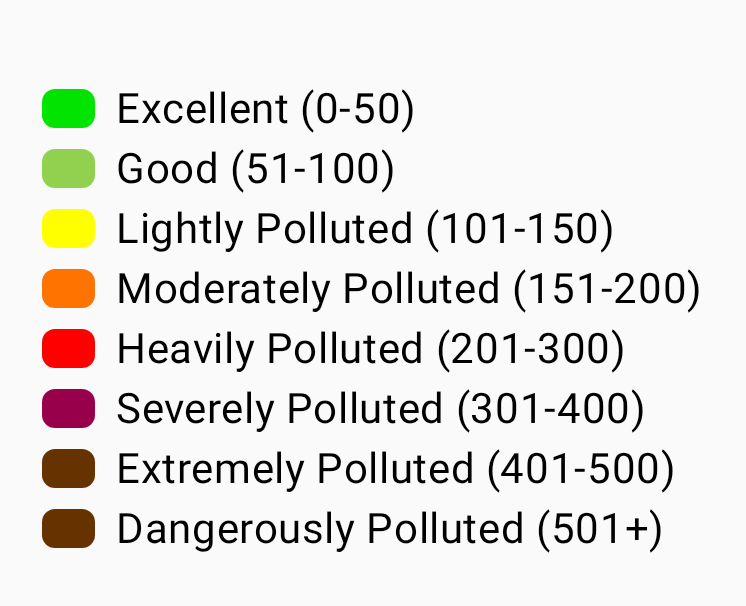
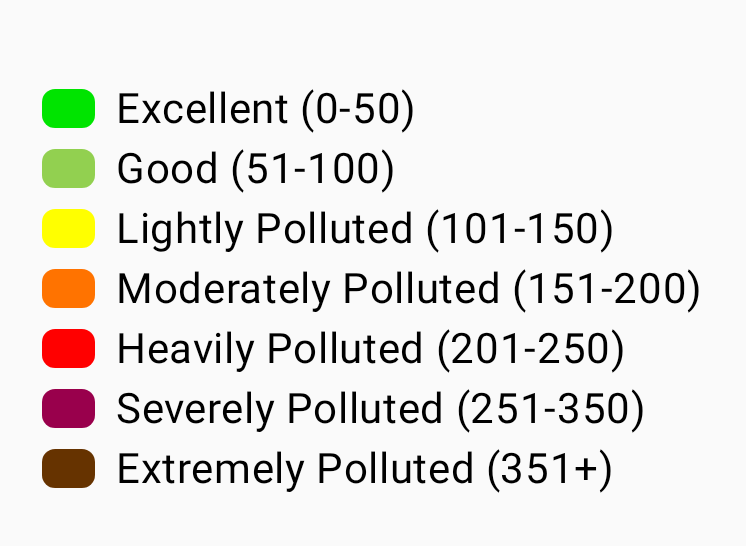
docs: 2.8.5 release notes and user guide
Replace the 2.8.5 placeholder in the metainfo and the Play changelog, and bring the user guide current with what merged since 2.8.4: guided setup, bootloader version and upgrade over Bluetooth, channel share and import, traceroute states, telemetry display, banana for scale and Android XR. Refresh the two docs screenshots whose goldens changed.

Changed region(s): [[0.0308, 0.1245, 0.9558, 0.9341], [0.0617, 0.8718, 0.1233, 0.9029]]

diff --git a/docs/en/user/node-metrics.md b/docs/en/user/node-metrics.md
@@ -2,7 +2,7 @@
 title: Node Metrics
 parent: User Guide
 nav_order: 5
-last_updated: 2026-10-21
+last_updated: 2026-11-12
 description: Telemetry dashboards for each mesh node — device health, environment sensors, air quality, signal quality, power, traceroute, and position history.
 aliases:
   - metrics
@@ -58,11 +58,21 @@ Environmental sensor data (requires compatible hardware):
 | Gas Resistance | BME680 |
 | IAQ (Air Quality) | BME680 |
 
-Environment metrics are charted over time — temperature, humidity, and pressure each get their own line chart with the measurement unit displayed on the Y axis.
+Environment metrics are charted over time, one chart per unit, stacked: temperature, humidity, pressure, and each other reading the node reports get their own chart with the unit on the Y axis. Humidity and soil moisture run from 0 to 100%. A unit with no data gets no chart.
 
-The BME680 **IAQ (Indoor Air Quality)** index is a single 0–500+ value derived from gas resistance, shown against a color-coded scale from *Excellent* to *Dangerously Polluted*:
+The BME680 **IAQ (Indoor Air Quality)** index is a single 0–500+ value derived from gas resistance, shown against a seven-band scale. Each band has a color and a label:
 
-![IAQ index scale from Excellent to Dangerously Polluted](../../assets/screenshots/node-metrics_iaq_scale.png)
+| IAQ | Label |
+|-----|-------|
+| 0–50 | Excellent |
+| 51–100 | Good |
+| 101–150 | Lightly Polluted |
+| 151–200 | Moderately Polluted |
+| 201–250 | Heavily Polluted |
+| 251–350 | Severely Polluted |
+| 351 and up | Extremely Polluted |
+
+![IAQ legend listing the seven bands with their colors](../../assets/screenshots/node-metrics_iaq_scale.png)
 
 > 💡 **Tip:** Environment metrics require a sensor connected to the remote node. Not all nodes report environmental data. See [Telemetry & Sensors](telemetry-and-sensors) for a full list of supported sensors.
 
@@ -139,28 +149,32 @@ Power management telemetry (requires INA sensor or compatible hardware):
 | Voltage | Per-channel voltage reading |
 | Current | Per-channel draw, in milliamps |
 
-The node detail screen shows cards for channels 1 to 3. Use the chart button on the **Power Metrics** row to open the chart screen, which lists a chip for every channel that reported data — up to eight — and charts the one you select. Use the label field under the chips to give a channel a name of your own, such as Solar or Battery. The app does not derive a wattage figure from voltage and current.
+The node detail screen shows a card for every channel that reported data, up to eight, under the name you gave the channel or **Channel** *N*. A channel that reported only voltage or only current shows only that reading. Use the chart button on the **Power Metrics** row to open the chart screen, which lists a chip for every channel that reported data — up to eight — and charts the one you select. Use the label field under the chips to give a channel a name of your own, such as Solar or Battery. The app does not derive a wattage figure from voltage and current.
 
 ## Traceroute
 
 Traceroute shows the path a message takes through the mesh:
 
 1. From the node detail screen's **Telemetry** section, tap the refresh button on the **Traceroute** row. You cannot traceroute your own node. The app sends at most one traceroute every 30 seconds, to any node, and **Trace Route** in the node list's touch & hold menu shares that cooldown.
-2. The app sends a traceroute request to the target node.
+2. The app sends a traceroute request to the target node. The request reads **Waiting for response** in the history until it settles.
 3. Results show each hop with its SNR.
+
+The ring on the traceroute button counts down the seconds until the next request is allowed.
 
 ### Reading Traceroute Results
 
 A traceroute is a round trip, so each saved result carries a hop count in each direction, **Forward Hops** and **Return Hops**, plus the **Round Trip** time in seconds. A result marked **Direct** reached the target with no relay in between. Tap a result to read the route traced toward the destination and the route traced back to you, with the SNR of every hop. That view offers **View on map**, which draws the same path, as long as the start and destination nodes have both shared a position.
 
-A relay that didn't record itself in the route shows as **Unknown hop**, and a relay your node has no record of shows as its node ID, such as `!a1b2c3d4`.
+A relay that didn't record itself in the route shows as **Unknown hop**, and a relay your node has no record of shows as its node ID, such as `!a1b2c3d4`. A hop whose node was last heard over MQTT is marked `(MQTT)`.
 
 The history also keeps traceroutes this app didn't request:
 
 - **Observed** marks a response from this node to a request made elsewhere, such as one started from your node's own screen. It has hop counts but no round-trip time, and its points on the chart are hollow rings.
 - **Traced by** *node* marks a traceroute that node ran to yours. It shows the inbound route with the SNR of each hop, but no return route, no round-trip time, and no map, and it stays off the chart.
 
-A result marked **No Response** means the target never answered. It may be out of range, asleep, or configured not to reply. Wait for the 30-second cooldown to clear and try again; if it keeps failing, send a direct message first to confirm the node is reachable at all.
+A result marked **No Response** means the target didn't answer within two minutes, or the mesh reported that the request couldn't be delivered. The target may be out of range, asleep, or configured not to reply. Wait for the 30-second cooldown to clear and try again; if it keeps failing, send a direct message first to confirm the node is reachable at all.
+
+A result marked **Rate limited** means your node refused the request because it sends one traceroute every 30 seconds. Wait for the cooldown and try again.
 
 ## Position Log
 

diff --git a/docs/en/user/firmware.md b/docs/en/user/firmware.md
@@ -2,7 +2,7 @@
 title: Firmware Updates
 parent: User Guide
 nav_order: 13
-last_updated: 2026-10-28
+last_updated: 2026-11-12
 description: Update your node's firmware over Bluetooth, Wi-Fi, or USB — OTA process, version channels, pre-flight checks, and recovery.
 aliases:
   - firmware
@@ -92,7 +92,7 @@ Both a USB erase and a bootloader upgrade write two files in turn, so you are as
 
 The app reads `INFO_UF2.TXT` from the drive you select to confirm it really is the device's update drive and to identify the board before writing anything.
 
-For a bootloader upgrade, the app also reads the installed bootloader version from `INFO_UF2.TXT` and shows it next to the latest release before writing anything. The running firmware doesn't report its bootloader, so the installed version appears only once the device has restarted into update mode, never on the firmware screen while connected. If the two match, the bootloader is left as it is and the app moves straight on to reinstalling the firmware. Otherwise choose **Upgrade bootloader** to write it, or **Skip** to reinstall the firmware without changing it.
+For a bootloader upgrade, the app also reads the installed bootloader version from `INFO_UF2.TXT` and shows it next to the latest release before writing anything. On firmware 2.8.2 and older the running firmware doesn't report its bootloader, so the installed version appears only once the device has restarted into update mode. If the two match, the bootloader is left as it is and the app moves straight on to reinstalling the firmware. Otherwise choose **Upgrade bootloader** to write it, or **Skip** to reinstall the firmware without changing it.
 
 On nRF52 the app must already know which Bluetooth stack your device uses before it starts, because it can't read the bootloader until the device has rebooted. If it can't confirm the stack, it refuses to erase and points you at the [Web Flasher](https://flasher.meshtastic.org) instead. In the Web Flasher, choosing the wrong Bluetooth stack can leave the node recoverable only with a hardware programmer.
 
@@ -102,6 +102,24 @@ Once the drive is readable, how an nRF52 device is erased depends on its bootloa
 - **Older bootloaders need a Bluetooth-stack-specific erase.** On these the app writes a small erase program matched to your device's Bluetooth stack, then starts it over the serial port. If the drive reports a different stack than expected, the app refuses rather than guessing.
 
 The app picks the path from what the drive reports; you don't choose it.
+
+### Bootloader version and upgrade over Bluetooth
+
+An nRF52 node on firmware newer than 2.8.2 reports its bootloader version while it runs. The device card on the firmware screen then shows a **Bootloader** row with the latest release beside it, on any connection. Every bootloader before 2.6.0 reports the same value, so those read **Bootloader: older than 2.6.0**. A node that reports no version shows no row. A node that reports the latest release isn't offered an upgrade.
+
+The screen offers **Upgrade bootloader** over Bluetooth when all of these hold:
+
+- the node is connected over Bluetooth
+- it reports a bootloader older than the latest release
+- a firmware version is selected
+
+Unplug the USB cable before starting. With a cable attached, the new bootloader comes up as an update drive, not over Bluetooth, and the app cannot send the firmware.
+
+The app sends the new bootloader over Bluetooth, then reinstalls the selected firmware, because writing the bootloader erases it. The whole upgrade takes about 10 minutes. Afterward the **Bootloader** row shows the latest release.
+
+Before writing, the app verifies the download and reads the board name from the bootloader. If the package fails verification, nothing is written. If the bootloader names a different board or none, nothing is written and the node restarts into its firmware.
+
+If the node doesn't come back over Bluetooth after the bootloader is written, install the firmware from its update drive over USB. Otherwise unplug it, reset it, and use **Resume firmware update** on the **Connect** tab.
 
 ### What the nRF52 bootloader does
 

diff --git a/docs/en/user/connections.md b/docs/en/user/connections.md
@@ -2,7 +2,7 @@
 title: Connections
 parent: User Guide
 nav_order: 2
-last_updated: 2026-11-08
+last_updated: 2026-11-12
 description: Connect your phone or desktop to a Meshtastic node over Bluetooth, USB, or TCP/IP.
 aliases:
   - bluetooth
@@ -144,9 +144,16 @@ If the scan reports **No networks found** or fails outright, move the phone clos
 
 Being connected is not the same as being able to transmit.
 
-A node leaves the factory with no LoRa region set, and it does not transmit until you set one. When you connect such a node, the **Connect** tab shows a **Set your region** card; tap it to open the LoRa screen and choose the region you are in.
+A node leaves the factory with no LoRa region set, and it does not transmit until you set one. The first time you connect such a node, the app opens a guided setup, and the **Connect** tab shows a **Set your region** card that reopens it. The setup takes you through four choices and ends on a summary:
 
-Once the region is set, the tab warns you if the node is receive-only: a **Transmit is disabled** card, reading "This device can receive but will not send anything over LoRa." Tap it to open the same screen and turn **Transmit Enabled** back on. Only one of the two cards appears at a time. An unset region already stops the node transmitting, so the app names that first and holds the transmit card back until you have set a region.
+1. **Region.** Search the list for the region you are in. The app suggests the one that matches your phone's region setting; confirm it or pick another.
+2. **Preset.** The modem preset sets the range and speed of the mesh, and everyone on a mesh uses the same one. On firmware older than 2.8 the node restarts after saving, and the setup continues once it reconnects.
+3. **Name.** Enter the names other people see in their node lists and on their maps. Licensed operators skip this page.
+4. **Nearby meshes.** On a node with the [Mesh Beacon](discovery#mesh-beacon) module, turn on listening for invitations from nearby meshes and join one you have heard.
+
+If you close the setup, the app doesn't open it for that node again on its own. Once the region is set, the card reads **Set up radio**, and the **Settings** screen has a **Set up radio** row for your own node.
+
+Once the region is set, the tab also warns you if the node is receive-only: a **Transmit is disabled** card, reading "This device can receive but will not send anything over LoRa." Tap it to open the LoRa screen and turn **Transmit Enabled** back on. Only one of the two cards appears at a time. An unset region already stops the node transmitting, so the app names that first and holds the transmit card back until you have set a region.
 
 For more information, see [Settings — Radio & User](settings-radio-user#lora-config).
 

diff --git a/docs/en/user.md b/docs/en/user.md
@@ -17,21 +17,21 @@ Documentation for using the Meshtastic Android and Desktop app.
 Keep the last 5–8 entries and archive older ones by removing them.
 -->
 
+**November 2026** — [Connections](user/connections) — A node with no region opens a guided setup for its region, preset, name, and nearby meshes.
+
+**November 2026** — [Firmware Updates](user/firmware) — The firmware screen shows the nRF52 bootloader version a node reports, and an outdated bootloader can be upgraded over Bluetooth.
+
+**November 2026** — [Messages & Channels](user/messages-and-channels) — **Share Channels** offers Replace or Add on the code itself, and an Add import shows how many channel slots are in use.
+
+**November 2026** — [Node Metrics](user/node-metrics) — A traceroute request reads **Waiting for response**, **No Response**, or **Rate limited**, MQTT hops are marked, and environment readings chart one unit per chart.
+
+**November 2026** — [Map & Waypoints](user/map-and-waypoints) — On an Android XR headset, a 3D terrain table shows the mesh with base map, contours, buildings, and links.
+
 **October 2026** — [Firmware Updates](user/firmware) — What the Meshtastic nRF52 Bootloader does while the update drive is up, and where a node waits after a dropped Bluetooth update.
 
 **October 2026** — [Settings — Radio & User](user/settings-radio-user) — Each configuration screen has its own section, settings use the app's exact labels, and every table lists the default value.
 
-**October 2026** — [Firmware Updates](user/firmware) — A node on firmware from 2.3.15 up to 2.5.14 stays connected behind a required-update screen, and the Connect tab flags a newer stable release.
-
-**October 2026** — [Messages & Channels](user/messages-and-channels) — A failed message can be resent in place, and on firmware 2.8.1 or newer a direct message can show **Delivered to recipient · proven**.
-
-**October 2026** — [Desktop App](user/desktop) — Site Planner computes coverage inside the app and adds it to the map as a layer.
-
 **October 2026** — [Map & Waypoints](user/map-and-waypoints) — The AR mesh view draws nodes and waypoints over the phone's camera and turns you toward the one you are finding.
-
-**September 2026** — [Notifications](user/notifications) — A page that lists every notification category, what each opens when tapped, when a message stays quiet, and what a message notification lets you do from the shade or a watch.
-
-**September 2026** — [Nodes](user/nodes) — On firmware 2.8.1 or newer, nodes your node has not heard since its LoRa settings changed carry an orange marker, a **Hide unheard nodes** filter, and a banner whose **Remove** action deletes them after you confirm.
 
 <!-- WHATS_NEW_END -->
 

diff --git a/docs/en/user/nodes.md b/docs/en/user/nodes.md
@@ -2,7 +2,7 @@
 title: Nodes
 parent: User Guide
 nav_order: 4
-last_updated: 2026-10-24
+last_updated: 2026-11-12
 description: Browse, filter, and sort mesh nodes — view details, signal quality, roles, and quick actions.
 aliases:
   - node-list
@@ -103,10 +103,11 @@ A mismatch never replaces the key you already hold. The app keeps the first key 
 From the node list, you can:
 - **Tap** a node to view its detail page
 - **Touch & hold** for quick actions:
-  - **Add to favorites** or **Remove from favorites**
-  - **Mute notifications** or **Unmute**, shown only once that node has reported firmware 2.7.18 or newer
   - **Message**, to open a direct message
-  - **Trace Route**, which stays disabled for 30 seconds after any traceroute request
+  - **Set display name**, to give the node a [local name](#display-names)
+  - **Add to favorites** or **Remove from favorites**
+  - **Mute notifications** or **Unmute**, shown only once your own node has reported firmware 2.7.18 or newer
+  - **Trace Route**, which reads **Trace Route in** *N* **s** and stays disabled for 30 seconds after any traceroute request
   - **Open Compass**, for a node with a position
   - **Open mesh view**, for a node with a position on a phone that supports the [AR mesh view](map-and-waypoints#ar-mesh-view)
   - **Ignore** or **Remove from ignored**
@@ -230,6 +231,10 @@ The label always accompanies the mark, so the status is never conveyed by color 
 ### 3D device model
 
 When the Meshtastic web flasher has a 3D model of the node's hardware, the device picture on the detail screen carries a 3D badge. Tap it to open the model full screen, where a drag turns it. On Google Play builds, **View in your space** places the model on a real surface at real size through ARCore, and on Android 10 and later the shutter button saves the view to Pictures/Meshtastic. F-Droid and desktop builds show the model without the AR view.
+
+The banana button (**Banana for scale**) stands a real-size banana beside the device, in the model viewer and in the AR view. The banana is 185 mm (7.3 in) tall, so it shows how big the device is. It is off each time you open the model.
+
+On an Android XR headset, the Google Play build's **View in your space** stands the model in the room beside the app, at real size. The banana comes with it when it is on. Pinch and drag the model to move it.
 
 ### Device links ("I want one")
 

diff --git a/docs/en/user/messages-and-channels.md b/docs/en/user/messages-and-channels.md
@@ -2,7 +2,7 @@
 title: Messages & Channels
 parent: User Guide
 nav_order: 3
-last_updated: 2026-10-21
+last_updated: 2026-11-12
 description: Send and receive messages, manage channels, configure encryption, search conversations, and use quick chat, reactions, and message actions.
 aliases:
   - channels
@@ -46,9 +46,18 @@ Key length alone does not change the icon: a 128-bit key and a 256-bit key both 
 4. Set the channel name and the **PSK**, and choose whether the channel uses MQTT uplink and downlink. Naming a new channel generates a fresh 256-bit key for you; the refresh icon beside **PSK** generates another one.
 5. Tap **Save** to close the editor. The change is still only on your phone.
 6. Tap **Send** at the bottom of the channel list to write the changes to the node. **Cancel**, or leaving the screen without tapping **Send**, throws them away.
-7. Optional: share the channel URL or QR code with the people who need access.
+7. Optional: share the channels with the people who need access — see [Sharing and importing channels](#sharing-and-importing-channels).
 
 Tapping an existing channel opens the same editor, where you can change the name, the PSK, MQTT uplink and downlink, and position precision. Every edit on this screen — adding, editing, deleting, or dragging a channel into a new order — waits on **Send** the same way.
+
+### Sharing and importing channels
+
+On the **Channels** screen, tap **Share Channels** to show a QR code and a link for the channels on your node. Choose what the code does on the other person's node before you hand it out:
+
+- **Replace** overwrites every channel on their node with yours and applies your LoRa settings.
+- **Add** keeps their channels and LoRa settings and appends yours.
+
+To take in someone else's channels, use the import button on the same screen: **Scan Shared Channels QR Code**, **Input Shared Channels URL**, or, on a phone with NFC, **Scan Shared Channels NFC**. For an Add code, the app lists the incoming channels so you can select the ones you want and shows how many of your node's channel slots are in use. If the selection doesn't fit, a line says how many channels to uncheck. Unchecking a channel that is already on your node removes it.
 
 ### Archived Channels
 

diff --git a/docs/en/user/settings-radio-user.md b/docs/en/user/settings-radio-user.md
@@ -2,7 +2,7 @@
 title: Settings — Radio & User
 parent: User Guide
 nav_order: 7
-last_updated: 2026-10-24
+last_updated: 2026-11-12
 description: Configure your node hardware, LoRa presets, user profile, position sharing, power management, and security.
 aliases:
   - settings
@@ -249,7 +249,7 @@ On **Settings → Security**. The screen is grouped into cards: **Packet authent
 | Backup Keys | Save an encrypted backup of the node's keys on this phone. Only for your own node, and not in the desktop app | — |
 | Debug Logs | Output live debug logging over serial, and view and export position-redacted node logs over Bluetooth | Off |
 | Delete Key Backup | Remove the stored key backup from this phone | — |
-| Managed Device | Locks the whole Configuration list, not just channels — every setting on the node becomes read-only and only an admin can change anything. Only selectable once an **Admin Key** is set | Off |
+| Managed Device | Locks the whole Configuration list, not only channels — every setting on the node becomes read-only and only an admin can change anything. Only selectable once an **Admin Key** is set, and saving with no admin key left turns it off. If every admin key is lost, the only recovery is to erase the node with the [Web Flasher](https://flasher.meshtastic.org) | Off |
 | Private Key | Your node's private key (handle securely). Shown redacted when you are viewing another node over remote admin — the firmware doesn't send it | Generated by the node |
 | Protection level | How unsigned packets are treated: **Strict — Require authentication**, **Balanced — Prefer authenticated**, or **Compatible — Accept unsigned**. Needs firmware that supports packet signing; **Strict** asks for confirmation | Compatible |
 | Public Key | Your node's public key (read-only) | Derived from the private key |

diff --git a/docs/en/user/map-and-waypoints.md b/docs/en/user/map-and-waypoints.md
@@ -2,7 +2,7 @@
 title: Map & Waypoints
 parent: User Guide
 nav_order: 6
-last_updated: 2026-11-07
+last_updated: 2026-11-12
 description: View node positions on the map, create and share waypoints, manage map layers and Site Planner, and control position sharing and privacy.
 aliases:
   - map
@@ -61,6 +61,19 @@ Tap the mesh view button (**Open mesh view**) in the map's top bar to see the wh
 - Waypoint geofences are outlined, and the view says when you are inside one.
 
 When your phone's position has no altitude, targets sit level with you and the view says elevation is approximate. Without camera access, or while the phone is too hot, the view carries on as a compass.
+
+## 3D map on Android XR
+
+On an Android XR headset, the Google Play build adds a **Full Space** button. Full Space is the headset mode in which the app shares the room with 3D content. There the app stays as its own panel and gains **Home Space** and **3D map** buttons. F-Droid builds run on a headset as the flat app only.
+
+**3D map** stands a terrain table beside the app, built from the positions your nodes have shared and anchored on your connected node. The table shows:
+
+- the terrain in relief, with any of the 2D map's base maps draped over it
+- elevation contours, in meters or feet by your [units setting](units-and-locale)
+- buildings, where a downloaded offline region reaches zoom 13 or closer
+- nodes as the same chips as the 2D map, the links between them in signal colors, and the last traceroute
+
+The table's control panel holds the layer, **Buildings**, contour, and **Zoom** controls. With no positioned nodes there is no area to show. Where no terrain data exists, the ground is drawn flat.
 
 ## Waypoints
 

diff --git a/docs/en/user/discovery.md b/docs/en/user/discovery.md
@@ -2,7 +2,7 @@
 title: Local Mesh Discovery
 parent: User Guide
 nav_order: 12
-last_updated: 2026-10-21
+last_updated: 2026-11-12
 description: Explore your mesh network — the Local Mesh Discovery scanner, traceroute paths, neighbor maps, and node discovery tools.
 aliases:
   - discovery
@@ -158,6 +158,7 @@ Run traceroute several times over a few minutes, waiting out the 30-second coold
 #### Troubleshooting with Traceroute
 
 - **No Response** — The traceroute got nothing back. The target node may be offline, out of range, or on a different channel. Check that both nodes share at least one channel with the same encryption key.
+- **Rate limited** — Your node refused the request because it sends one traceroute every 30 seconds. The ring on the traceroute button counts down until the next one is allowed.
 - **Traceroute times out** — The path may be too long (exceeds hop limit) or a relay node is congested. Try increasing the hop limit in **Settings → LoRa**.
 - **Cannot show traceroute map because the start or destination node has no position information** — The path was traced, but one end has never shared a position.
 - **Asymmetric paths** — A traceroute from A→B may take a different path than B→A. This is normal — radio propagation isn't always symmetric.

diff --git a/docs/en/user/desktop.md b/docs/en/user/desktop.md
@@ -2,7 +2,7 @@
 title: Desktop App
 parent: User Guide
 nav_order: 14
-last_updated: 2026-10-21
+last_updated: 2026-11-12
 description: Install and use the Meshtastic Desktop app on Linux, macOS, and Windows — connections, feature parity, and keyboard shortcuts.
 aliases:
   - desktop
@@ -145,7 +145,7 @@ Requirements:
 - The USB maintenance flow — nRF52/RP2040 factory erase and bootloader upgrade — is Android-only, and the
   desktop app does not offer it. Use the [Web Flasher](https://flasher.meshtastic.org) instead
 - Some Android-specific features (widgets, specific notification channels) are unavailable
-- Performance may vary on low-spec hardware running Compose Desktop
+- Performance may vary on low-spec hardware running Compose Desktop. The app takes at most a quarter of the machine's RAM for its heap. It runs on a 512 MB board, but slows down there on a mesh of several hundred nodes
 - BLE bonding is not supported on desktop (pairing works without bonding)
 
 ## Related Topics
